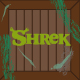
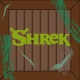
box_on_target textures changed

diff --git a/Nikoban/Renderer/Display.cs b/Nikoban/Renderer/Display.cs
@@ -55,7 +55,7 @@ namespace Nikoban.Renderer
                                     brush = new ImageBrush(new BitmapImage(new Uri("Images/pirate_template/finish_p.jpg", UriKind.RelativeOrAbsolute)));
                                     break;
                                 case GameLogic.GameItem.box_on_target:
-                                    brush = new ImageBrush(new BitmapImage(new Uri("Images/pirate_template/box_p.jpg", UriKind.RelativeOrAbsolute)));
+                                    brush = new ImageBrush(new BitmapImage(new Uri("Images/pirate_template/box_on_target_p.jpg", UriKind.RelativeOrAbsolute)));
                                     break;
                                 case GameLogic.GameItem.player_on_target:
                                     brush = new ImageBrush(new BitmapImage(new Uri("Images/pirate_template/player_finish_p.jpg", UriKind.RelativeOrAbsolute)));
@@ -91,7 +91,7 @@ namespace Nikoban.Renderer
                                     brush = new ImageBrush(new BitmapImage(new Uri("Images/shrek_template/finish_s.jpg", UriKind.RelativeOrAbsolute)));
                                     break;
                                 case GameLogic.GameItem.box_on_target:
-                                    brush = new ImageBrush(new BitmapImage(new Uri("Images/shrek_template/box_s.jpg", UriKind.RelativeOrAbsolute)));
+                                    brush = new ImageBrush(new BitmapImage(new Uri("Images/shrek_template/box_on_target_s.jpg", UriKind.RelativeOrAbsolute)));
                                     break;
                                 case GameLogic.GameItem.player_on_target:
                                     brush = new ImageBrush(new BitmapImage(new Uri("Images/shrek_template/player_finish_s.jpg", UriKind.RelativeOrAbsolute)));
@@ -127,7 +127,7 @@ namespace Nikoban.Renderer
                                     brush = new ImageBrush(new BitmapImage(new Uri("Images/star_wars_template/finish_sw.jpg", UriKind.RelativeOrAbsolute)));
                                     break;
                                 case GameLogic.GameItem.box_on_target:
-                                    brush = new ImageBrush(new BitmapImage(new Uri("Images/star_wars_template/box_sw.jpg", UriKind.RelativeOrAbsolute)));
+                                    brush = new ImageBrush(new BitmapImage(new Uri("Images/star_wars_template/box_on_target_sw.jpg", UriKind.RelativeOrAbsolute)));
                                     break;
                                 case GameLogic.GameItem.player_on_target:
                                     brush = new ImageBrush(new BitmapImage(new Uri("Images/star_wars_template/player_finish_sw.jpg", UriKind.RelativeOrAbsolute)));
